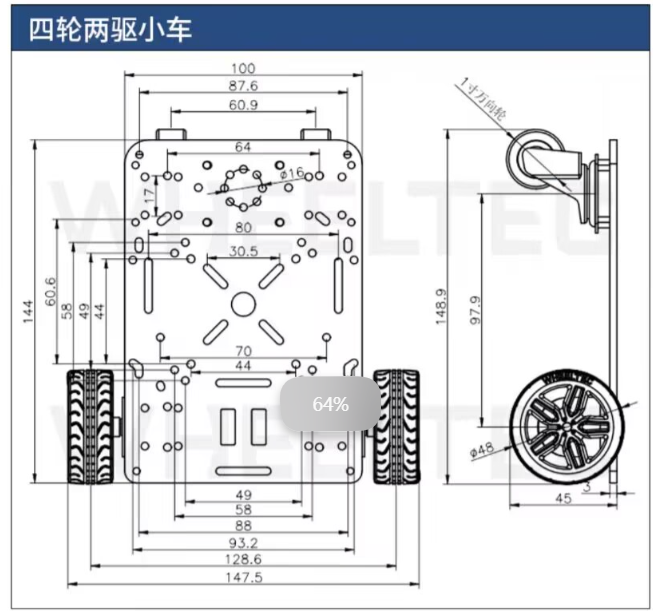
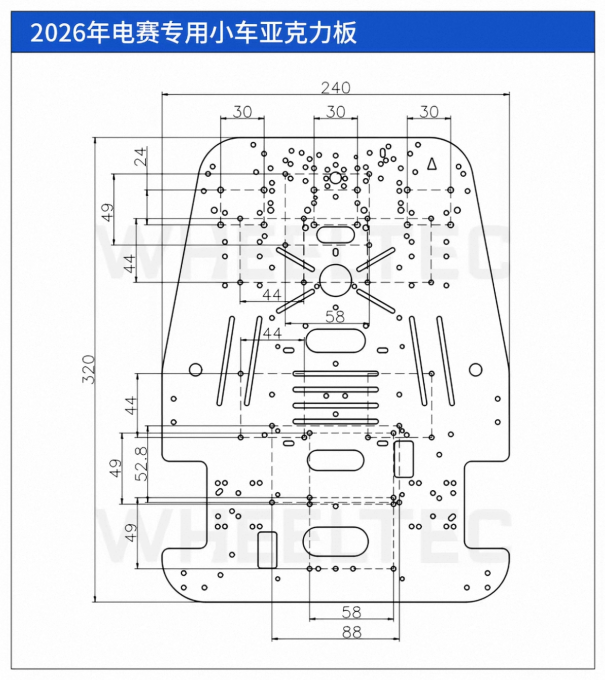
底盘与水管代码基础架构

diff --git a/app/gimbal/gimbal.c b/app/gimbal/gimbal.c
@@ -1,0 +1,42 @@
+#include "gimbal.h"
+
+#include "stepper.h"
+
+#define GIMBAL_TASK_PERIOD_MS          5U
+#define GIMBAL_STEPPER_SWING_STEPS    40U
+#define GIMBAL_STEPPER_SWING_SPEED_SPS 200U
+
+static Stepper_Device_t gimbal_stepper;
+static Stepper_Direction_e gimbal_stepper_next_direction = STEPPER_DIR_UP;
+
+volatile Device_Status_e gimbal_stepper_init_status = DEVICE_ERROR;
+volatile uint32_t gimbal_stepper_task_count;
+volatile int32_t gimbal_stepper_position_steps;
+volatile bool gimbal_stepper_running;
+
+void GimbalInit(void)
+{
+    gimbal_stepper_init_status = Stepper_Init(&gimbal_stepper);
+}
+
+void GimbalTask(void)
+{
+    if (gimbal_stepper_init_status != DEVICE_OK) {
+        return;
+    }
+
+    if (!gimbal_stepper.running) {
+        (void) Stepper_Move(&gimbal_stepper, gimbal_stepper_next_direction,
+            GIMBAL_STEPPER_SWING_STEPS, GIMBAL_STEPPER_SWING_SPEED_SPS);
+        gimbal_stepper_next_direction =
+            (gimbal_stepper_next_direction == STEPPER_DIR_UP)
+                ? STEPPER_DIR_DOWN
+                : STEPPER_DIR_UP;
+    }
+
+    Stepper_Task(&gimbal_stepper, GIMBAL_TASK_PERIOD_MS);
+
+    gimbal_stepper_task_count++;
+    gimbal_stepper_position_steps = gimbal_stepper.position_steps;
+    gimbal_stepper_running = gimbal_stepper.running;
+}

diff --git a/app/robot.c b/app/robot.c
@@ -63,7 +63,7 @@ void RobotInit()
 #endif
 
 #if defined(ROBOT_ENABLE_GIMBAL_APP)
-    // GimbalInit();
+    GimbalInit();
 #endif
 
 #if defined(ROBOT_ENABLE_SHOOT_APP)
@@ -82,35 +82,12 @@ void RobotInit()
 
 void RobotTask()
 {
-    {
-        IMU_Data_t imu_data;
-        if (IMU_ReadAll(&imu_data) == DEVICE_OK) {
-            float vofa_buf[9];
-            vofa_buf[0] = imu_data.ax;
-            vofa_buf[1] = imu_data.ay;
-            vofa_buf[2] = imu_data.az;
-            vofa_buf[3] = imu_data.gx;
-            vofa_buf[4] = imu_data.gy;
-            vofa_buf[5] = imu_data.gz;
-            vofa_buf[6] = imu_data.roll;
-            vofa_buf[7] = imu_data.pitch;
-            vofa_buf[8] = imu_data.yaw;
-            (void) VOFA_JustFloatOutputDMA(vofa_buf, 9U);
-
-#if defined(ROBOT_ENABLE_INS_APP)
-            if (g_imu_publisher != NULL) {
-                (void) PubPushMessage(g_imu_publisher, &imu_data);
-            }
-#endif
-        }
-    }
-
 #if defined(ROBOT_ENABLE_CMD_APP)
     RobotCMDTask();
 #endif
 
 #if defined(ROBOT_ENABLE_GIMBAL_APP)
-    // GimbalTask();
+    GimbalTask();
 #endif
 
 #if defined(ROBOT_ENABLE_SHOOT_APP)

diff --git a/app/robot_def.h b/app/robot_def.h
@@ -37,10 +37,16 @@ typedef enum {
 /* --------------------------应用启用开关模板-------------------------- */
 /* 按迁移进度打开对应 app。打开前请确认源文件和依赖模块已经完成适配。 */
 // #define ROBOT_ENABLE_CMD_APP
-#define ROBOT_ENABLE_CHASSIS_APP
+#define ROBOT_TOTAL_APP
+// #define ROBOT_ENABLE_CHASSIS_APP
 // #define ROBOT_ENABLE_INS_APP
 // #define ROBOT_ENABLE_GIMBAL_APP
 // #define ROBOT_ENABLE_SHOOT_APP
+
+#if defined(ROBOT_TOTAL_APP)
+#define ROBOT_ENABLE_CHASSIS_APP
+#define ROBOT_ENABLE_GIMBAL_APP
+#endif
 
 #if defined(ROBOT_ENABLE_INS_APP) && !defined(ROBOT_ENABLE_CHASSIS_APP)
 #error ROBOT_ENABLE_INS_APP requires ROBOT_ENABLE_CHASSIS_APP.

diff --git a/app/gimbal/gimbal.h b/app/gimbal/gimbal.h
@@ -1,0 +1,17 @@
+#ifndef GIMBAL_H
+#define GIMBAL_H
+
+#include <stdbool.h>
+#include <stdint.h>
+
+#include "bsp_def.h"
+
+extern volatile Device_Status_e gimbal_stepper_init_status;
+extern volatile uint32_t gimbal_stepper_task_count;
+extern volatile int32_t gimbal_stepper_position_steps;
+extern volatile bool gimbal_stepper_running;
+
+void GimbalInit(void);
+void GimbalTask(void);
+
+#endif

diff --git a/app/hardware_test/hardware_test_config.h b/app/hardware_test/hardware_test_config.h
@@ -12,7 +12,7 @@
 #define HARDWARE_TEST_STEPPER_UART 8
 
 /* Select one hardware test here, then rebuild the project. */
-#define HARDWARE_TEST_MODE HARDWARE_TEST_STEPPER_UART
+#define HARDWARE_TEST_MODE 0
 
 #if (HARDWARE_TEST_MODE < HARDWARE_TEST_NONE) || \
     (HARDWARE_TEST_MODE > HARDWARE_TEST_STEPPER_UART)
